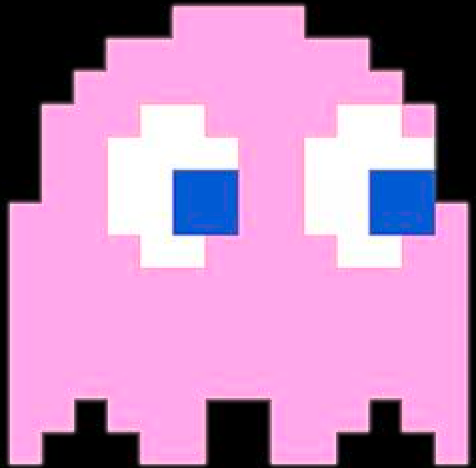
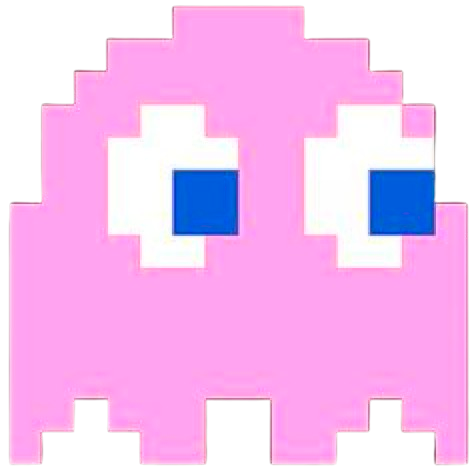
ghosts now have transparent background for all states

diff --git a/test.py b/test.py
@@ -290,7 +290,7 @@ class GameView(arcade.Window):
 
         # background music
         self.background_music = arcade.Sound("sounds/pacman_beginning.wav", streaming=True)
-        self.background_music_player = self.background_music.play(loop=True)
+        #self.background_music_player = self.background_music.play(loop=True)
 
         # Initialize the player sprite
         self.player_sprite = Controllable(os.path.join('images', 'pacman-static.png'), TILE_SIZE)
@@ -423,6 +423,7 @@ class GameView(arcade.Window):
     def on_draw(self):
 
         if self.first_render:
+            self.background_music_player = self.background_music.play(loop=True)
             self.death_pause_start = time.time()  # Set the start time for the pause
             self.first_render = False  # Set the flag to False after the first render
         
